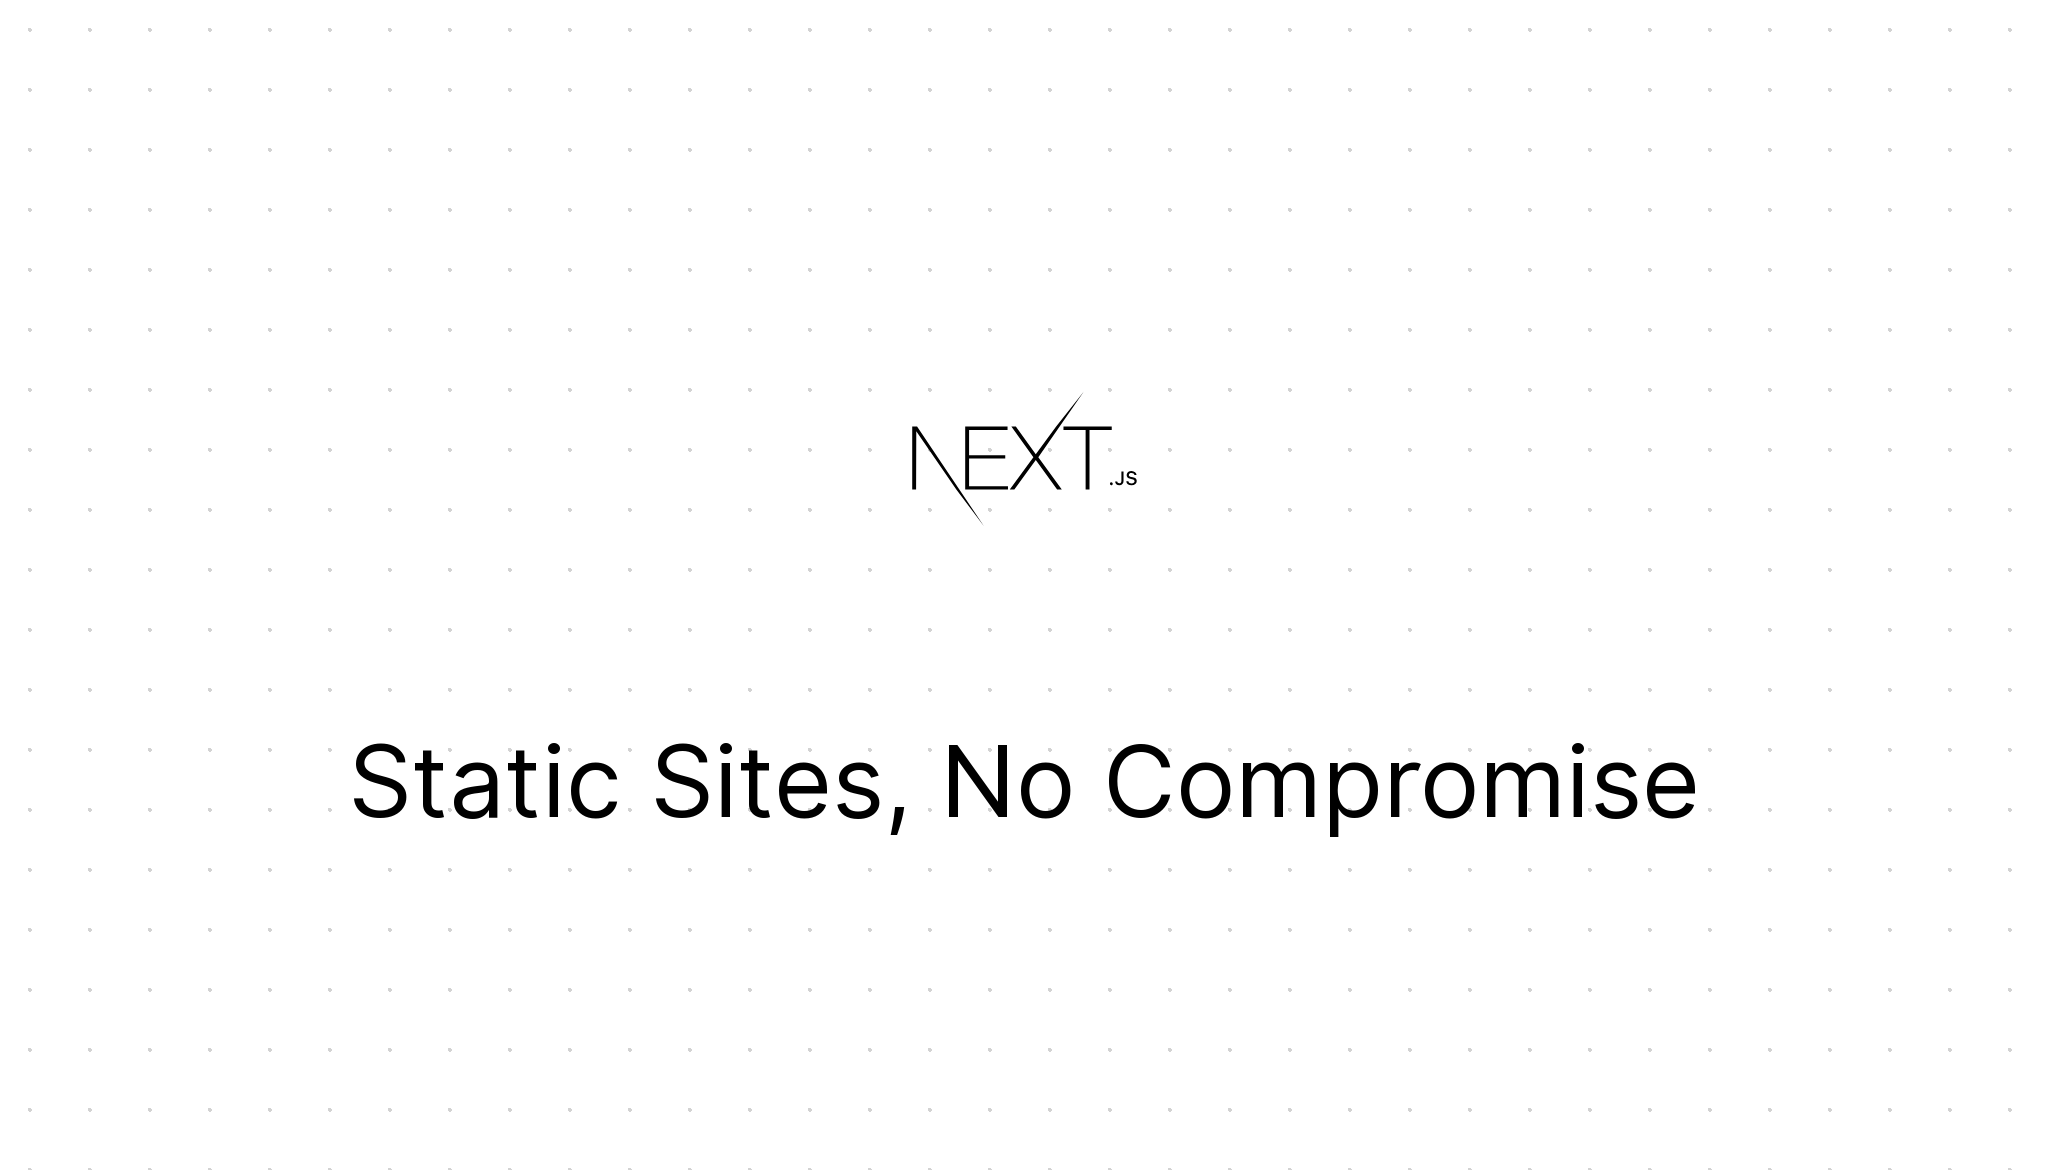
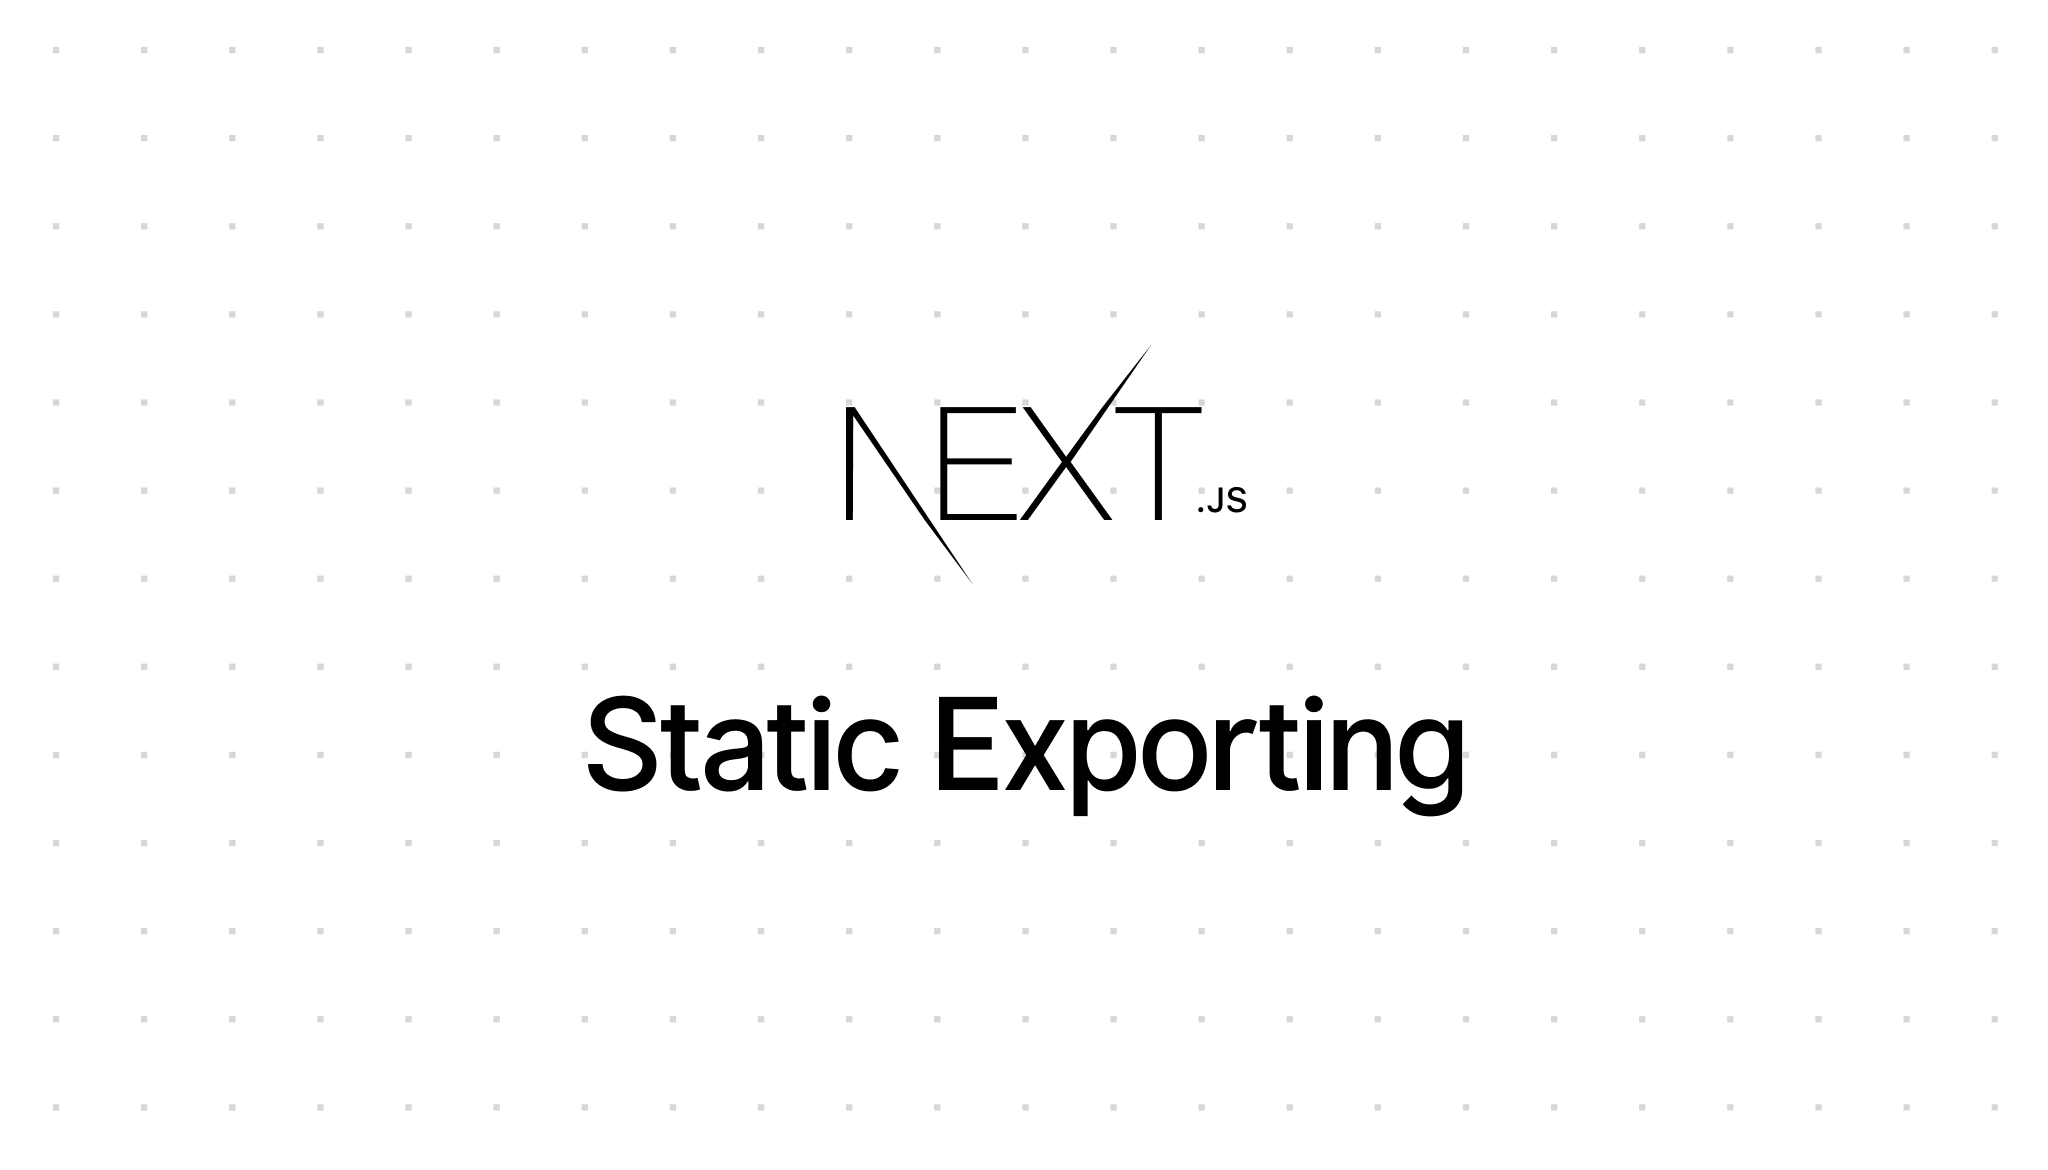
update og images

Changed region(s): [[0.1562, 0.5846, 0.8438, 0.7077], [0.4062, 0.3385, 0.625, 0.4615]]

diff --git a/www/pages/features/server-side-rendering.js b/www/pages/features/server-side-rendering.js
@@ -19,13 +19,18 @@ export default () => (
     <SocialMeta
       title={title}
       description="Leverage Server Side Rendering out of the box with Next.js"
-      image="/static/twitter-cards/static-exporting.png"
-      url="https://nexts.org/features/static-exporting"
+      image="/static/twitter-cards/server-side-rendering.png"
+      url="https://nexts.org/features/server-side-rendering"
       keywords="Server side rendering, Server rendering, SSR, Next, JavaScript, Web Framework"
     />
     <MediaQueryConsumer>
       {({ isMobile }) => (
-        <Header height={64 + (isMobile ? 32 : 0)} shadow dotBackground active={64}>
+        <Header
+          height={64 + (isMobile ? 32 : 0)}
+          shadow
+          dotBackground
+          active={64}
+        >
           <Navbar />
         </Header>
       )}
